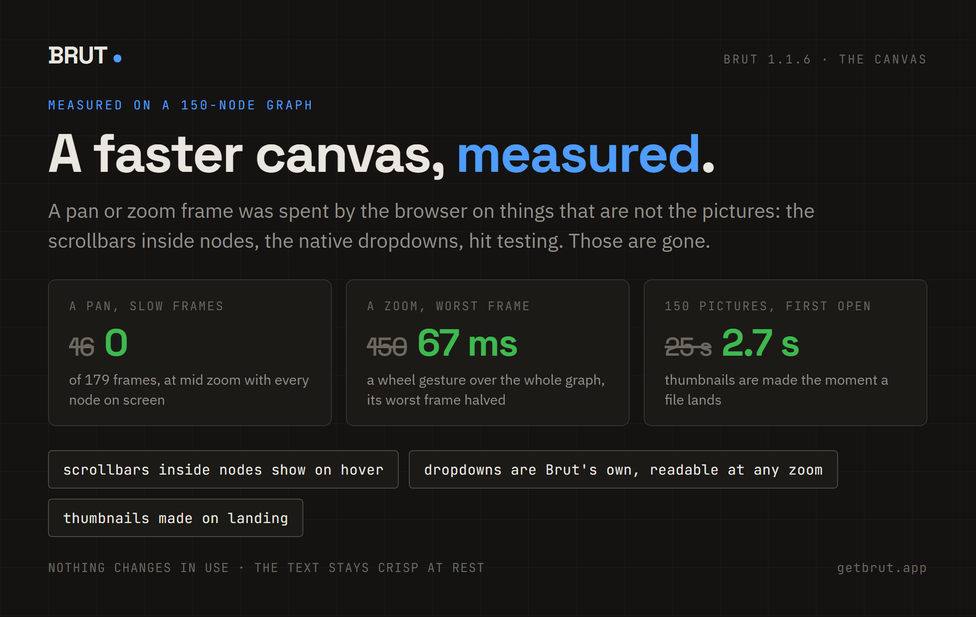
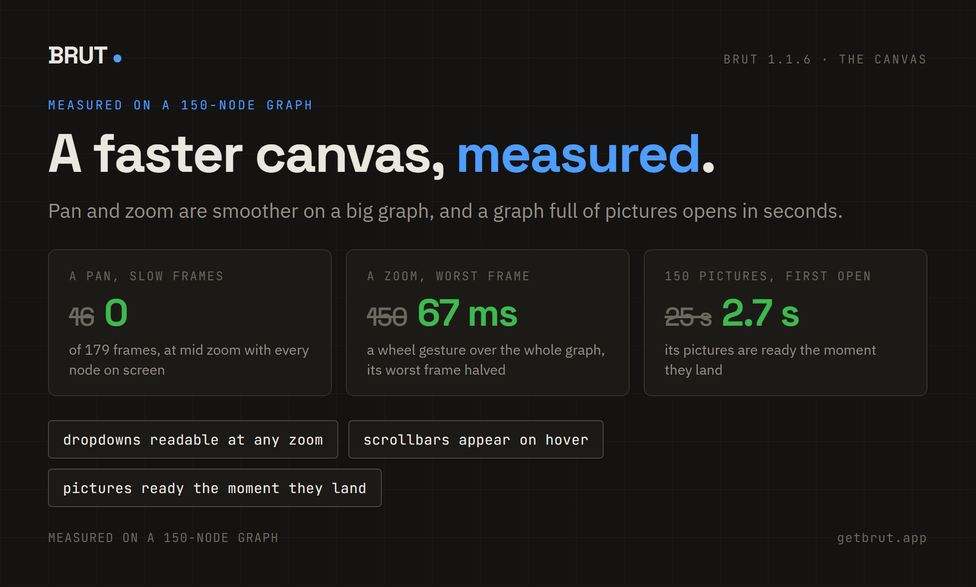
1.1.6: changelog and two cards trimmed to functionality

diff --git a/changelog/index.html b/changelog/index.html
@@ -122,20 +122,20 @@ footer a { color: var(--dim); text-decoration: none; } footer a:hover { color: v
       <h2>Kling 4.0 and Video → Video on your plan, Seedance accepts your people, Ideogram, your graphs keep their versions, a faster canvas; Veo leaves before Google shuts it down</h2>
       <p>Everything since the 1.1.5 send. Two new ways to make video on the Kling plan, the door past Seedance's people gate, a new image provider with an edit that keeps your pixels, Reconcile on every edit node, graphs that cannot be wiped, three free tools, a canvas measured and made faster, and a round of fixes from nine days of field runs. <b>Install this build before October 22:</b> Google ends Veo 3.1 on its API that day, and 1.1.6 is the version that no longer depends on it.</p>
       <ul>
-        <li><b>Kling 4.0 on your kling.ai plan.</b> Kling's new model in the Kling (subscription) menus: <b>Image → Video</b> from 3 to 30 seconds, 720p or 1080p, first and last frame, sound always on (stereo, lip-synced), <b>Text → Video</b> with a 21:9 option, and <b>Video → Video</b> (below). Measured on real clips: 9 plan credits a second at 720p (about $0.10), 13.5 at 1080p (about $0.15), a clip edit about $0.12 a second of output. One thing 4.0 does that no other Kling tier does: a ratio you pick on Image → Video is honored even against a portrait start frame, so the aspect select now defaults to <i>follow the input</i> on every video node and only a pick you make is sent. Reference pictures on 4.0 Image → Video are refused by name (Kling reads extra pictures as in-between keyframes there; a later step). ⚙ Settings offers <b>Update Kling CLI</b> when the installed one is behind.<figure class="media"><img src="/docs/media/releases/1.1.6/kling-4.png" alt="Kling 4.0: 3 to 30 s, 720p or 1080p, sound always on, about $0.10 a second at 720p on your plan" loading="lazy"><figcaption>Kling 4.0: 3 to 30 s, 720p or 1080p, sound always on, about $0.10 a second at 720p on your plan</figcaption></figure></li>
-        <li><b>Video → Video, and a Video In node.</b> A clip in, a clip out, on the Kling plan (3.0 Omni, 4.0, and Motion Control on 3.0 and 2.6) or on Seedance 2.5. Four tasks: <b>Edit the clip</b> (framing, length, camera and timing stay the clip's, the prompt changes the rest: a sunny shot at dusk with the windows lit), <b>Borrow the camera</b> (a new shot on the clip's camera move), <b>3D preview to real shot</b> (a clay playblast and a look picture become the finished clip; the look picture gives materials and light, the clay clip keeps the shot) and <b>Drive a character</b> (one picture of a subject, moved by the clip). The node reads the clip's size, length and frame rate, says the size it goes out at, refuses what the model cannot take before anything is uploaded, and confirms the price once; a clip outside a model's limits is resized or resampled, never cut. Seedance runs these through your own BytePlus storage bucket (a storage key in ⚙ Settings); Kling needs nothing but the sign-in. Kling clips now wait up to an hour for kling.ai to finish (two long edits used to time out on this side while they completed over there).<figure class="media"><img src="/docs/media/releases/1.1.6/video-to-video.png" alt="Edit the clip: the same camera move and people, now a winter dusk with the windows lit (Kling 3.0 Omni on the plan, 36 credits)" loading="lazy"><figcaption>Edit the clip: the same camera move and people, now a winter dusk with the windows lit (Kling 3.0 Omni on the plan, 36 credits)</figcaption></figure></li>
+        <li><b>Kling 4.0 on your kling.ai plan.</b> Kling's new model in the Kling (subscription) menus: <b>Image → Video</b> from 3 to 30 seconds, 720p or 1080p, first and last frame, sound always on (stereo, lip-synced), <b>Text → Video</b> with a 21:9 option, and <b>Video → Video</b> (below). Measured on real clips: 9 plan credits a second at 720p (about $0.10), 13.5 at 1080p (about $0.15), a clip edit about $0.12 a second of output. The aspect select on the video nodes now defaults to <i>follow the input</i>. Reference pictures are not taken on 4.0 Image → Video yet. ⚙ Settings offers <b>Update Kling CLI</b> when the installed one is behind.<figure class="media"><img src="/docs/media/releases/1.1.6/kling-4.png" alt="Kling 4.0: 3 to 30 s, 720p or 1080p, sound always on, about $0.10 a second at 720p on your plan" loading="lazy"><figcaption>Kling 4.0: 3 to 30 s, 720p or 1080p, sound always on, about $0.10 a second at 720p on your plan</figcaption></figure></li>
+        <li><b>Video → Video, and a Video In node.</b> A clip in, a clip out, on the Kling plan (3.0 Omni, 4.0, and Motion Control on 3.0 and 2.6) or on Seedance 2.5. Four tasks: <b>Edit the clip</b> (framing, length, camera and timing stay the clip's, the prompt changes the rest: a sunny shot at dusk with the windows lit), <b>Borrow the camera</b> (a new shot on the clip's camera move), <b>3D preview to real shot</b> (a clay playblast and a look picture become the finished clip; the look picture gives materials and light, the clay clip keeps the shot) and <b>Drive a character</b> (one picture of a subject, moved by the clip). The node shows the clip's size, length and frame rate, the size it goes out at and the price before anything runs; a clip outside a model's limits is adjusted, never cut. Seedance needs your own BytePlus storage key in ⚙ Settings; Kling needs only the sign-in. A long Kling render no longer times out on this side while kling.ai finishes it.<figure class="media"><img src="/docs/media/releases/1.1.6/video-to-video.png" alt="Edit the clip: the same camera move and people, now a winter dusk with the windows lit (Kling 3.0 Omni on the plan, 36 credits)" loading="lazy"><figcaption>Edit the clip: the same camera move and people, now a winter dusk with the windows lit (Kling 3.0 Omni on the plan, 36 credits)</figcaption></figure></li>
         <li><b>Seedance accepts your people: the Seedance assets node.</b> Seedance refuses any picture with a face in it, a generated character included, unless the picture is in your BytePlus asset library. The new node registers your pictures there: wire them in, name the set, click <b>Register</b>, and Seedance accepts the people in them from then on, as a start or end frame, a reference or a picture beside a clip, in every project. The pictures pass through unchanged. <b>Pick from your library…</b> shows every asset on your account as a grid, tick the ones you want, <b>Use</b> lands them on the node (an asset you picked is an ordinary picture: any model takes it), <b>Delete from library…</b> frees a slot. Registering is free (50 assets on BytePlus's free plan), the Image → Video trust line reads a registered picture green, and ⚙ Settings → BytePlus storage shows the library with a meter. It uses the storage key above.<figure class="media"><img src="/docs/media/releases/1.1.6/seedance-assets.png" alt="Two pictures registered as assets, the Image → Video trust line green: Seedance accepts the people in them" loading="lazy"><figcaption>Two pictures registered as assets, the Image → Video trust line green: Seedance accepts the people in them</figcaption></figure></li>
-        <li><b>Ideogram joins the providers.</b> On your own Ideogram key, in every image menu: <b>Ideogram 4.5</b> text-to-image, its lettering strength in archviz signage, at $0.03, $0.06 or $0.10 an image by quality, and an edit that re-renders the picture. <b>Ideogram 4.5 Precise Edit</b> is the correction tool: the picture comes back at its exact size with every untouched pixel copied from it (95 percent identical, measured on a sofa recolor), from $0.008 an image; on Annotate &amp; Correct it runs one pass per mark and leaves no marker behind. <b>Ideogram 4.5 Replace Background</b> takes two pictures and no prompt, the picture and a photo of the new setting, and returns the picture in that setting at its own frame, $0.22 (on Compose: scene and reference; on Image → Image: the two wires). <b>Ideogram 4.0 Transparent</b> makes a picture on a transparent background, a PNG with alpha for cutouts and lettering, and Layers and the Sketchpad keep its transparency. A <b>Magic prompt</b> box on the generation nodes turns Ideogram's own prompt rewriting on, off unless you tick it. 21:9 renders at 2K only on Ideogram: the option is greyed at 1K with the reason. Powered by Ideogram.<figure class="media"><img src="/docs/media/releases/1.1.6/ideogram.png" alt="Ideogram 4.5, the Precise Edit (95 % of the pixels copied), Replace Background and a transparent cutout" loading="lazy"><figcaption>Ideogram 4.5, the Precise Edit (95 % of the pixels copied), Replace Background and a transparent cutout</figcaption></figure></li>
+        <li><b>Ideogram joins the providers.</b> On your own Ideogram key, in every image menu: <b>Ideogram 4.5</b> text-to-image, its lettering strength in archviz signage, at $0.03, $0.06 or $0.10 an image by quality, and an edit that re-renders the picture. <b>Ideogram 4.5 Precise Edit</b> is the correction tool: the picture comes back at its exact size with every untouched pixel copied from it (95 percent identical, measured on a sofa recolor), from $0.008 an image; on Annotate &amp; Correct it leaves no marker behind. <b>Ideogram 4.5 Replace Background</b> takes two pictures and no prompt, the picture and a photo of the new setting, and returns the picture in that setting at its own frame, $0.22 (on Compose: scene and reference; on Image → Image: the two wires). <b>Ideogram 4.0 Transparent</b> makes a picture on a transparent background, a PNG with alpha for cutouts and lettering, and Layers and the Sketchpad keep its transparency. A <b>Magic prompt</b> box on the generation nodes turns Ideogram's own prompt rewriting on, off unless you tick it. 21:9 renders at 2K only on Ideogram: the option is greyed at 1K with the reason. Powered by Ideogram.<figure class="media"><img src="/docs/media/releases/1.1.6/ideogram.png" alt="Ideogram 4.5, the Precise Edit (95 % of the pixels copied), Replace Background and a transparent cutout" loading="lazy"><figcaption>Ideogram 4.5, the Precise Edit (95 % of the pixels copied), Replace Background and a transparent cutout</figcaption></figure></li>
         <li><b>Reconcile with input on every edit node.</b> The 🗇 button that lays an edit back over its original and keeps the original's exact pixels everywhere but the edit is on Image → Image, Inpaint and Compose too, not only Annotate. On Inpaint the painted mask says where the edit was asked; on Compose the scene is the base; on Image → Image every change is kept and the mask it hands you is paintable. One button, one Layers node, the same editor.<figure class="media"><img src="/docs/media/releases/1.1.6/reconcile-inpaint.png" alt="The Reconcile button on an Inpaint result: the original's pixels back everywhere but the sofa" loading="lazy"><figcaption>The Reconcile button on an Inpaint result: the original's pixels back everywhere but the sofa</figcaption></figure></li>
         <li><b>No single action can wipe a graph.</b> A new graph is named when it is created (File ▾ → New graph asks; a taken name is refused), and leaving a canvas with unsaved work says how many nodes are at stake and where the copy goes. Every graph keeps its <b>last five saves</b>, and the autosave is covered too: when another canvas replaces the one you had, the replaced one is shelved. <b>File ▾ → Restore an earlier version…</b> lists them with their node counts and times and brings one back; a restore is one undo step, so Ctrl+Z returns the canvas you had.<figure class="media"><img src="/docs/media/releases/1.1.6/restore-version.png" alt="File ▾ → Restore an earlier version…: the shelved saves, with their node counts and times" loading="lazy"><figcaption>File ▾ → Restore an earlier version…: the shelved saves, with their node counts and times</figcaption></figure></li>
         <li><b>A node's history shows this graph's takes.</b> 🕘 on a node and the History board used to list every graph of the project whose node carried the same id. They show this graph's takes now; <b>Every graph in this project</b> widens the list with the graph's name on each foreign take, and Find in ledger says when a take belongs to another graph.</li>
         <li><b>Three free tools.</b> <b>Extract frame</b>: a clip in, its first or last frame or the frame at a time you scrub to, at the clip's own size, for the next shot's start frame or an upscale (Kling and Gemini Omni hand back no last frame; this does). <b>Join text</b>: every wired text in wire order plus its own, one text out, no model call, so a stage that reads one text wire can read a composed brief. <b>Trims on the Sequence</b>: an in and an out per clip, the film length under the list. The Sequence also keeps every clip's last frame now (it used to drop one frame per clip) and lists every clip wired into it.<figure class="media"><img src="/docs/media/releases/1.1.6/extract-frame.png" alt="Extract frame: a clip in, its last frame out at the clip's own size, free" loading="lazy"><figcaption>Extract frame: a clip in, its last frame out at the clip's own size, free</figcaption></figure></li>
         <li><b>A short project list, and shortcuts on the File menu.</b> The project selector shows the ten you opened most recently, ✕ takes a project off the list (nothing deleted; "N more…" shows the rest, ↺ brings one back), and <b>Forget</b> in the File menu is the deeper action for a rooted project. The File menu reads label and shortcut, nothing else: Save on <b>Ctrl+S</b>; project actions on Ctrl+Shift (N new, S save project as, O open); graph actions on Ctrl+Alt (N new, Shift+S save as, I import a file). The explanations live in the tooltips.</li>
-        <li><b>A faster canvas.</b> Measured on a 150-node graph, a pan or zoom frame was spent by the browser on things that are not the pictures: every scrollable area inside a node, every native dropdown, and hit testing. Now the scrollbars inside nodes show only while the node is hovered, the dropdowns on the node faces are Brut's own (the list opens at screen scale, readable at any zoom, with the keyboard), and a middle-button pan no longer hit-tests every node under the cursor. A pan went from 16 slow frames to none, a zoom gesture's worst frame halved. Thumbnails are made the moment a file lands, so a graph of 150 pictures opens in a few seconds on a machine that never showed it (it took 25).<figure class="media"><img src="/docs/media/releases/1.1.6/faster-canvas.png" alt="The speed pass, measured on a 150-node graph: a pan with no slow frame, a zoom's worst frame halved" loading="lazy"><figcaption>The speed pass, measured on a 150-node graph: a pan with no slow frame, a zoom's worst frame halved</figcaption></figure></li>
+        <li><b>A faster canvas.</b> Pan and zoom are smoother on big graphs: measured on a 150-node graph, a pan went from 16 slow frames to none and a zoom's worst frame halved. The dropdowns on the nodes are readable at any zoom and take the keyboard, the scrollbars inside nodes appear on hover, and a graph of 150 pictures opens in a few seconds instead of 25 on a machine that never showed it.<figure class="media"><img src="/docs/media/releases/1.1.6/faster-canvas.png" alt="The speed pass, measured on a 150-node graph: a pan with no slow frame, a zoom's worst frame halved" loading="lazy"><figcaption>The speed pass, measured on a 150-node graph: a pan with no slow frame, a zoom's worst frame halved</figcaption></figure></li>
         <li><b>Google Veo removed, Gemini 3.7 Flash retired, Nano Banana 2 without a date.</b> Google ends Veo 3.1, Fast and Lite on its API on <b>October 22, 2026</b>; Veo is gone from the video menus and the Settings cards (Gemini Omni, Kling and Seedance stay), and a saved graph's Veo node fails on run naming the way out. Google routes Gemini 3.7 Flash to 3.8 Flash since October 12: a graph naming 3.7 opens on 3.8 and the Activity says so. Nano Banana 2 is deprecated with <b>no shutdown date announced</b> (the October 29 date in the 1.1.5 notes was not Google's: corrected); it stays in the menus until Google names one. The original Nano Banana ends on March 15, 2027, and its node says so.<figure class="media"><img src="/docs/media/releases/1.1.6/veo-retired.png" alt="Google's calendar: Veo ends on October 22, Gemini 3.7 Flash routed to 3.8, Nano Banana 2 deprecated with no date" loading="lazy"><figcaption>Google's calendar: Veo ends on October 22, Gemini 3.7 Flash routed to 3.8, Nano Banana 2 deprecated with no date</figcaption></figure></li>
-        <li><b>Storyboard and Film Shots.</b> A shot you add by hand keeps its name when the Director re-plans to more shots (its own x1, x2… names; an older board is put right when it opens), and 🗑 removes it whether muted or not. The Film Shots table follows the plan after a run: a changed clip is queued again, a dropped one leaves, a new one appears priced, rendered rows keep their take. The start selector reads 🎨 alone again, and a wired keyframe prompt shows on the card. Stills → Film renders its clips on <b>Kling 3.0 Omni</b> now: measured on the same six shots, 3.0 standard trembles on every camera move while Omni holds one as well as Seedance 2.5 does; Omni's rates are in (6 credits a second at 720p, 8 at 1080p, silent). The clip prompts Film Shots writes for Kling say what stays still instead of listing faults, and Kling 3.0's smart multi-shot splitting is off for one-shot clips.</li>
-        <li><b>Workflow cards: a copy is its own.</b> Duplicating a card (Ctrl+D, Ctrl+C / V) with a Model or Size knob driving several stages kept the copy's extra stages pointed at the original card, so a model picked on the copy set the original's sheets. Fixed, and a graph saved with such copies is repaired when it opens: the Activity names the card, which may read "stages differ inside" until you pick the model once more.</li>
-        <li><b>Recipes reach you between releases.</b>While you are signed in, Brut checks once a day whether newer recipes exist (its presets, workflows, prompts and model list), downloads that one small signed file from getbrut.app in the background and uses it from its next start: a retired model or an improved preset lands without a new installer. The beta license's account section names that download, so the app asks you to accept the license once more at the first launch.</li>
+        <li><b>Storyboard and Film Shots.</b> A shot you add by hand keeps its name when the Director re-plans to more shots (an older board is put right when it opens), and 🗑 removes it whether muted or not. The Film Shots table follows the plan after a run: a changed clip is queued again, a dropped one leaves, a new one appears priced, rendered rows keep their take. The start selector reads 🎨 alone again, and a wired keyframe prompt shows on the card. Stills → Film renders its clips on <b>Kling 3.0 Omni</b> now: measured on the same six shots, 3.0 standard trembles on every camera move while Omni holds one as well as Seedance 2.5 does; Omni's rates are in (6 credits a second at 720p, 8 at 1080p, silent).</li>
+        <li><b>Workflow cards: a copy is its own.</b> A duplicated card (Ctrl+D, Ctrl+C / V) now drives its own stages with its Model or Size knob, never the card it was copied from, and a graph saved with such copies is put right when it opens: the Activity names the card, which may read "stages differ inside" until you pick the model once more.</li>
+        <li><b>Recipes reach you between releases.</b> While you are signed in, Brut fetches newer recipes (its presets, workflows and model list) by itself and uses them from its next start: a retired model or an improved preset lands without a new installer. The beta license names that download, so the app asks you to accept it once more at the first launch.</li>
         <li><b>Fixes from the field:</b> Marcel's saved looks survive an update (they go to your library folder now); every video node's aspect defaults to <i>follow the input</i> instead of 16:9; Kling o1 and 3.0 Turbo clips on the plan run again; a Seedance request with large pictures no longer hangs and times out, and a picture over 30 MB is refused up front with the fix; a Text Board wired into another node no longer shows an empty text on that node.</li>
         <li><b>Docs at getbrut.app/docs:</b> the Ideogram page, Video → Video and Video In, Seedance assets, Extract frame, Join text, the Sequence trims, saving and undo with versions, the project list and shortcuts, Kling 4.0 on the subscription page, the privacy page with the recipes download; the Veo page is gone.</li>
       </ul>
